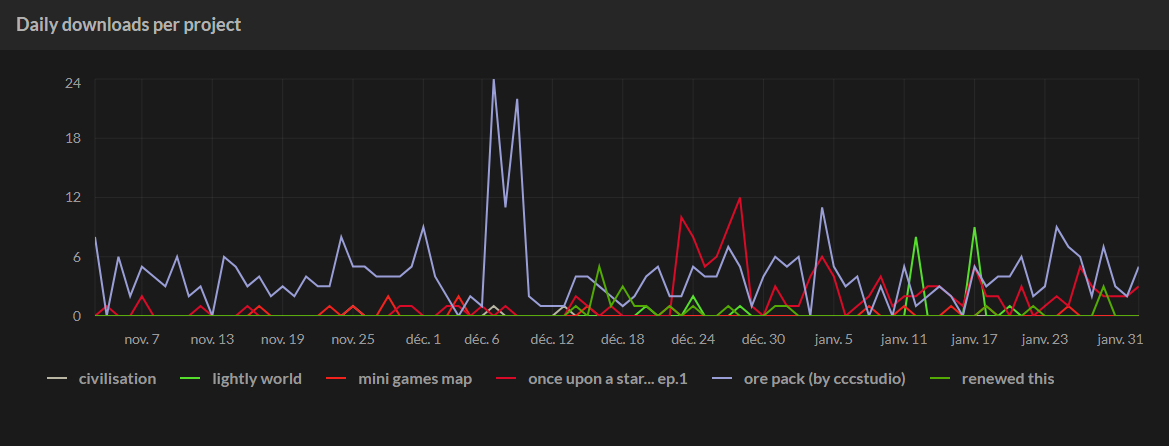
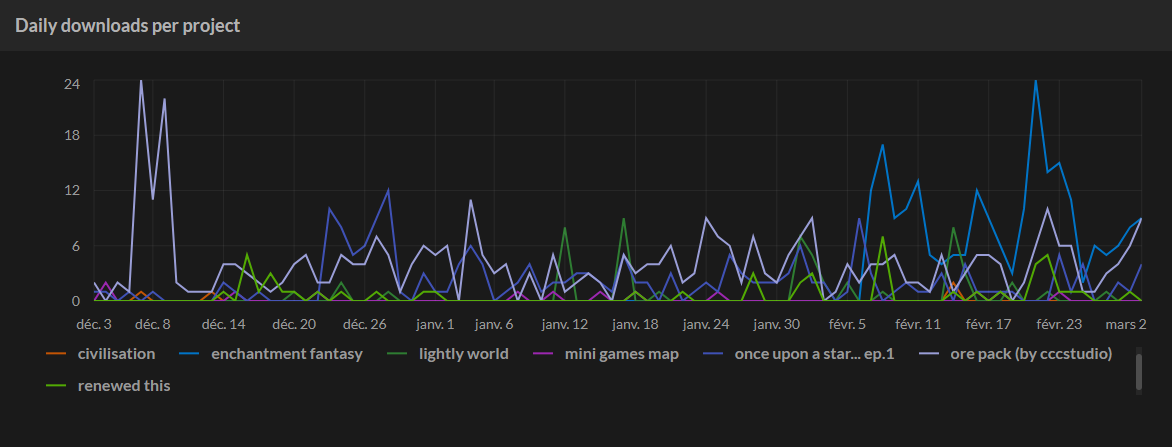
stats_update

diff --git a/stats.html b/stats.html
@@ -28,6 +28,6 @@
             Captures taken on 
             <a href="https://authors.curseforge.com/#/downloads-statistics">
                 https//authors.curseforge.com/#/downloads-statistics</a> 
-            on Ferbruary 1, 2025</p>
+            on March 3, 2025</p>
     </body>
 </html>
